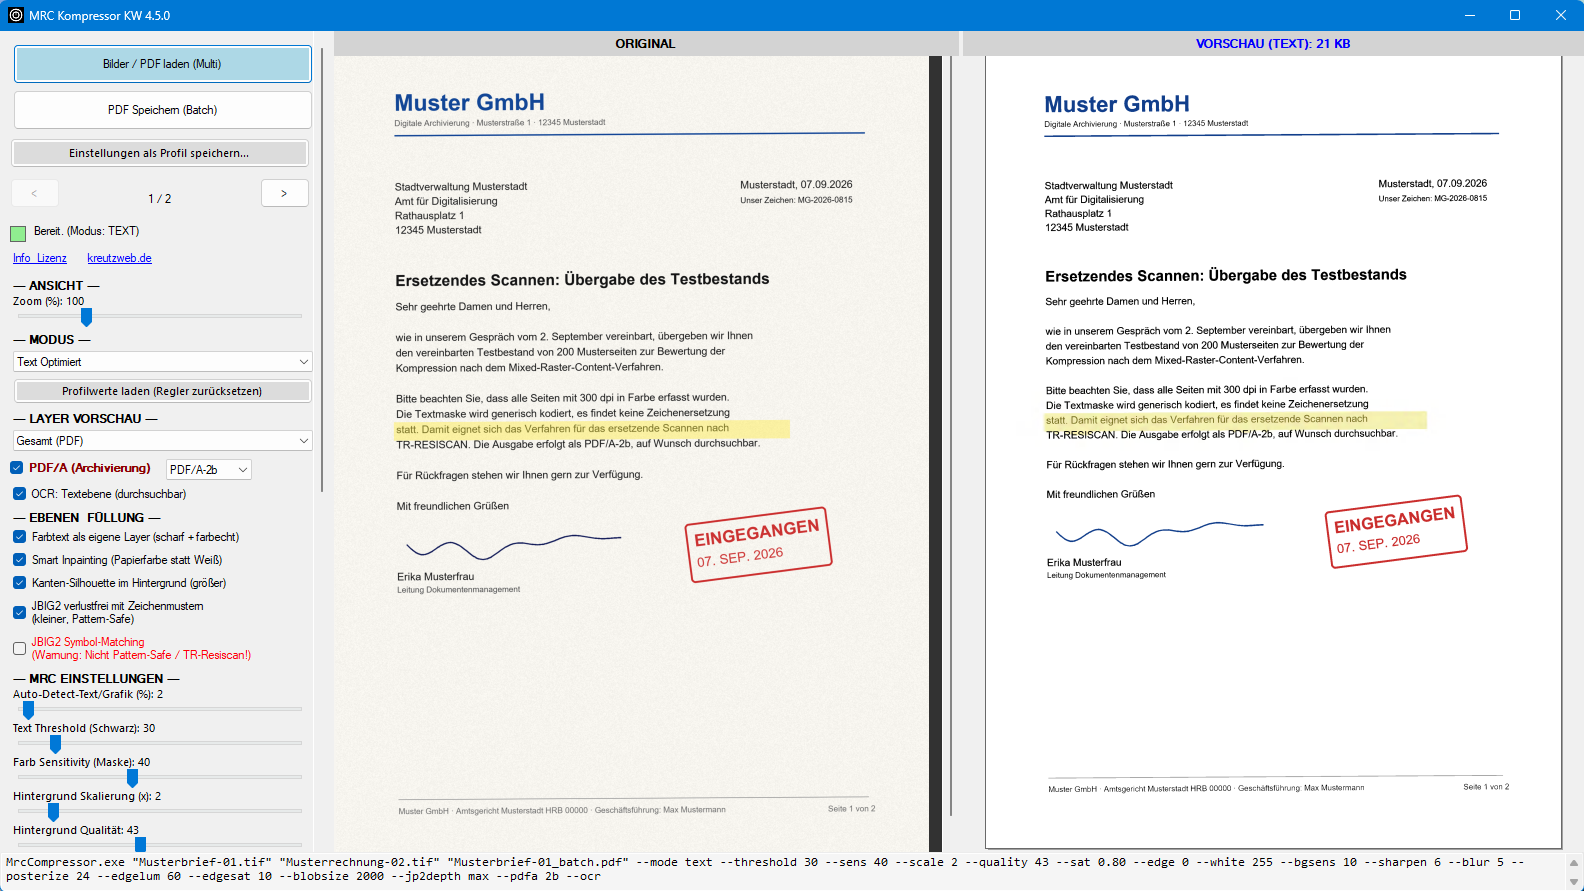
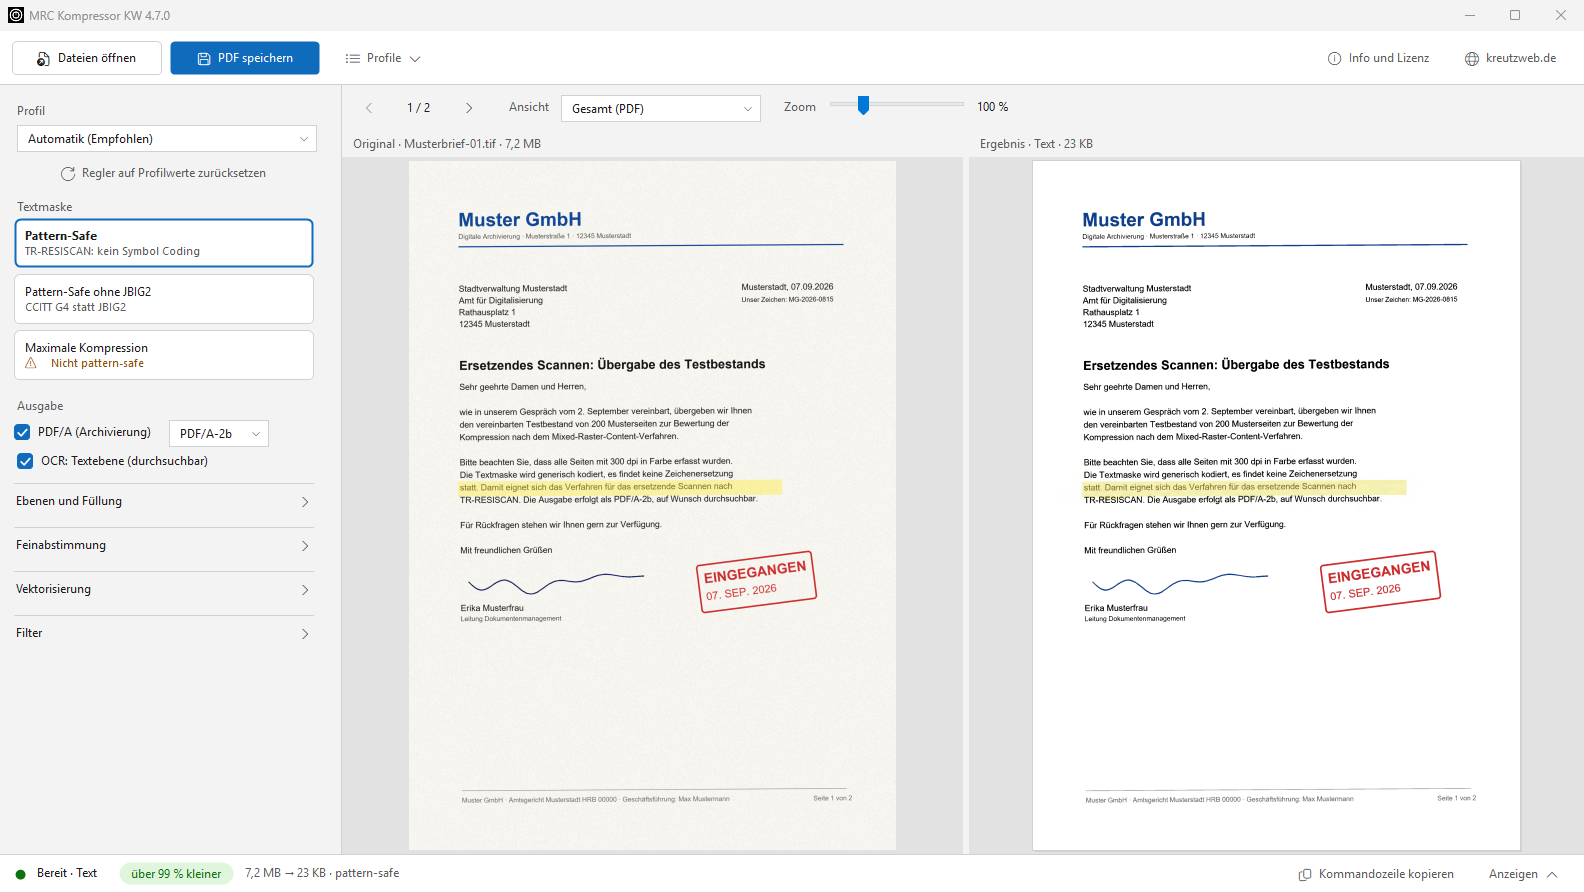
README: 4.7.0 – new interface, strictly pattern-safe default, text on image pages
Default text mask is now generic JBIG2 without symbol coding (BSI TR-03138),
with CCITT G4 and maximum compression as options; comparison figure split
into default and maximum compression. Sharp text masks on image pages,
JPEG 2000 with OpenJPEG, embossed seals kept, new GUI description and
screenshot (fictitious sample letter).

diff --git a/README.de.md b/README.de.md
@@ -3,12 +3,13 @@
 Ein kostenloses Windows-Programm, das gescannte Seiten (TIFF, JPEG, PNG oder PDF) mit
 **Mixed Raster Content (MRC)** in extrem kompakte PDF-Dateien verwandelt —
 typisch **90–95 % kleiner** als der Original-Scan, bei gestochen scharfem Text.
-Standardmäßig pattern-safe (keine JBIG2-Zeichenersetzung), damit geeignet für
-das ersetzende Scannen nach **BSI TR-RESISCAN**.
+Standardmäßig pattern-safe: Die Textmaske wird Pixel für Pixel kodiert, ohne
+Zeichenmuster und ohne Zeichenvergleich — kein „Symbol Coding“ im Sinn der
+**BSI TR-RESISCAN** (TR-03138, Anforderung A.SC.12).
 
 **Webseite & Download:** https://kreutzweb.de/tool-mrc-pdf-kompressor.html
 
-![MRC PDF Kompressor — Split-View: links der Original-Scan, rechts die Vorschau des komprimierten PDFs](screenshot.png)
+![MRC PDF Kompressor — links der Original-Scan, rechts die Vorschau des komprimierten PDFs](screenshot.png)
 
 ## Warum
 
@@ -16,20 +17,31 @@ Eine farbige A4-Seite mit 300 DPI ist als TIFF 25 MB groß und als JPEG immer
 noch mehrere MB. Archive, DMS und Postfächer laufen damit schnell voll.
 Kommerzielle MRC-Engines lösen das, werden aber pro Arbeitsplatz oder
 Seitenvolumen lizenziert. Dieses Werkzeug liefert vergleichbare Ergebnisse —
-im internen Vergleich mit 23 Musterseiten in Summe rund 60 % kleiner als eine
-führende kommerzielle MRC-Lösung und in allen fünf Dokumentgruppen kleiner, bei
-gleicher Lesbarkeit — und ist für
-Privatpersonen und kleine Unternehmen kostenlos.
+im internen Vergleich mit 23 Musterseiten im Standard (streng pattern-safe) in
+Summe rund 60 % kleiner als eine führende kommerzielle MRC-Lösung, die ihre
+Schrift per Symbol-Matching kodiert, bei reinen Textseiten etwa gleichauf; mit
+`--maxcompress` in Summe rund zwei Drittel kleiner und in allen fünf
+Dokumentgruppen kleiner — und ist für Privatpersonen und kleine Unternehmen
+kostenlos.
 
 ## Funktionen
 
 - **Extreme Kompression**: aus einem 5-MB-Scan werden im Text-Modus deutlich
   unter 100 KB
-- **Pattern-safe / TR-RESISCAN**: JBIG2-Kodierung ohne Zeichenersetzung,
-  verlustfrei mit Zeichenmustern — gleiche Zeichen werden einmal gespeichert und
-  an jeder Stelle pixelgenau korrigiert, kein Zeichen wird durch ein „ähnliches"
-  ersetzt (die bekannte JBIG2-Falle); optionaler Symbol-Modus für maximale
-  Kompression, wenn Pattern-Sicherheit nicht gefordert ist
+- **Pattern-safe / TR-RESISCAN**: Standard ist die generische JBIG2-Kodierung —
+  jedes Pixel der Textmaske wird so gespeichert, wie es ist, ohne Wörterbuch und
+  ohne Zeichenvergleich (kein „Symbol Coding“, TR-03138 A.SC.12); `--patternsafe`
+  erzwingt das auch gegen ein eigenes Profil
+- **Pattern-safe ohne JBIG2** (`--ccitt`): dieselbe Sicherheit mit CCITT G4
+  (Fax-Kodierung) für Stellen, die JBIG2 ganz ablehnen; Textseiten werden
+  20–45 % größer
+- **Maximale Kompression auf Wunsch** (`--maxcompress`): JBIG2-Symbol-Matching
+  und Kantenangleichung gleicher Zeichen — reine Textseiten bis rund 60 %
+  kleiner. Ähnliche Zeichen können dabei ersetzt werden (die bekannte
+  JBIG2-Falle), also nicht für das ersetzende Scannen. Mit
+  `--maxcompress --nojbig2symbols` wird kein Zeichen ersetzt: gleiche Zeichen
+  werden einmal als Muster gespeichert und an jeder Stelle pixelgenau
+  korrigiert (Textseiten meist 15–45 % kleiner)
 - **Farbtext-Ebenen**: farbige Überschriften, Stempel, Logos und Textmarker
   werden automatisch erkannt und als eigene scharfe 300-DPI-Ebenen in
   Originalfarbe erhalten (bis zu 4 Farbcluster je Seite)
@@ -37,10 +49,16 @@ Privatpersonen und kleine Unternehmen kostenlos.
   getöntem Papier bleiben kleine Textseiten, das Papier wird eine gleichmäßige
   Fläche in seiner Farbe; Fotos und Illustrationen auf Textseiten kommen als
   eigenes Bild in Grafik-Qualität in die PDF, die Schrift drumherum bleibt scharf
+- **Schrift auf Bildseiten**: auch auf Seiten, die als Bild gespeichert werden
+  (Fotos, Pläne, Prospekte), kommt sicher erkannte schwarze Schrift scharf in
+  eine Textmaske — zeilen- und absatzweise; das Bild darunter wird kleiner
 - **Formulare und Screenshots**: grau hinterlegte Formularfelder bleiben erhalten (gerade
   Felder als Vektorfläche mit scharfer Kante), Formulare mit farbigen Rahmen bleiben kleine
   Textseiten, helle Ankreuzkästchen bleiben vollständig; Screenshots und Programmfenster auf
   Textseiten werden als Bild geschützt, ihre kleine Schrift bleibt lesbar
+- **Prägesiegel**: deutlich ausgeprägte Blindprägungen (etwa ein Kammersiegel auf einem
+  Zeugnis) werden erkannt und als zarte Schattierung erhalten, statt mit dem Papier
+  weiß gebleicht zu werden
 - **Smart Inpainting & Background Bleaching**: der Hintergrund hinter dem Text
   wird mit der echten Papierfarbe rekonstruiert, Grauschleier und
   Durchscheinen entfernt — keine Halos, kleinere Dateien
@@ -56,9 +74,10 @@ Privatpersonen und kleine Unternehmen kostenlos.
   auf Dateianhänge (z. B. von E-Rechnungen) weist das Programm hin – sie gehen verloren
 - **Mehrseitige TIFFs**, Ordner und Wildcards als Eingabe, parallele
   Seitenverarbeitung auf Mehrkern-CPUs (bis zu 8 Seiten gleichzeitig)
-- **Split-View-Oberfläche** mit Echtzeit-Vorschau (Original vs. Ergebnis),
-  synchronem Zoom, Ebenen-Ansicht, Profilen („Text", „Grafik", …) und einer
-  generierten Kommandozeile zum Übernehmen in Skripte
+- **Moderne Oberfläche** mit Echtzeit-Vorschau (Original und Ergebnis
+  nebeneinander), synchronem Zoom, Ebenen-Ansicht, Profilen („Text", „Grafik", …),
+  hell oder dunkel passend zu Windows; Dateien und Ordner lassen sich ins Fenster
+  ziehen, die passende Kommandozeile lässt sich mit einem Klick kopieren
 - **Eigene Profile**: beliebig viele benannte Profile in der Oberfläche
   speichern und per `--profile "Name"` in Skripten aufrufen
 - **Voll skriptbare CLI**: Exit-Codes 0/1/2, Fortschritt je Seite, `--help`,
@@ -67,13 +86,14 @@ Privatpersonen und kleine Unternehmen kostenlos.
 ## Wie es funktioniert
 
 1. **Text-Maske** — schwarzer Text wird in voller Auflösung (300 DPI)
-   extrahiert und als JBIG2 kodiert — verlustfrei mit Zeichenmustern und einem
-   gemeinsamen Wörterbuch je Dokument, jede Seite wird zur Kontrolle
-   zurückgelesen (pattern-safe; CCITT G4 als Rückfallebene)
+   extrahiert und als JBIG2 kodiert — generisch, also Pixel für Pixel ohne
+   Zeichenmuster (pattern-safe; CCITT G4 als Rückfallebene). Mit `--ccitt`
+   als CCITT G4 statt JBIG2, mit `--maxcompress` mit Zeichenmustern und einem
+   gemeinsamen Wörterbuch je Dokument, jede Seite wird zur Kontrolle zurückgelesen
 2. **Farbtext-Ebenen** — farbige Schrift, Stempel und Logos werden nach Farbe
    gruppiert und als eigene Stencil-Ebenen eingebettet
 3. **Hintergrund** — Papierstruktur und Fotos werden inpainted, geglättet,
-   verkleinert und als JPEG 2000 oder JPEG kodiert; gleichmäßig graue
+   verkleinert und als JPEG 2000 (OpenJPEG) oder JPEG kodiert; gleichmäßig graue
    Formularfelder kommen als scharfe Vektorflächen darüber
 4. **Bildbereiche** — Fotos, Illustrationen und Screenshots auf Textseiten werden als eigenes
    Bild in Grafik-Qualität eingebettet, dort entsteht keine Textmaske
@@ -99,7 +119,8 @@ auf der Download-Seite.
 
 Voraussetzungen: Windows 10/11 64-Bit, .NET Framework 4.8,
 [Visual C++ Redistributable x64](https://aka.ms/vc14/vc_redist.x64.exe) für die
-Texterkennung. Das Setup installiert die Laufzeit auf Wunsch nach.
+Texterkennung und die JPEG-2000-Kodierung mit OpenJPEG. Das Setup installiert die
+Laufzeit auf Wunsch nach.
 
 ## Kommandozeile
 
@@ -120,9 +141,12 @@ MrcCompressor.exe --help
 | `--threshold 0-255` | Empfindlichkeit der Texterkennung |
 | `--scale 1-10` | Verkleinerungsfaktor des Hintergrunds (stärkster Größenhebel) |
 | `--quality 0-100` | Qualität des Hintergrunds (JPEG 2000 / JPEG) |
-| `--jbig2symbols` | JBIG2-Symbol-Matching (max. Kompression, **nicht** pattern-safe) |
-| `--nojbig2lossless` | Textmaske nur generisch kodieren, ohne Zeichenmuster |
+| `--patternsafe` | Pattern-Safe erzwingen (ist der Standard; gilt auch gegen ein Profil): generisches JBIG2 ohne Symbol Coding |
+| `--ccitt` | Pattern-Safe ohne JBIG2: Textmaske als CCITT G4 (größer) |
+| `--maxcompress` | maximale Kompression: Symbol-Matching und Kantenangleichung, **nicht** pattern-safe (Zeichen können ersetzt werden) |
+| `--nojbig2symbols` | zusammen mit `--maxcompress`: ohne Zeichenersetzung (Zeichenmuster bitgleich) |
 | `--noimageregions` | Fotos auf Textseiten nicht als eigenes Bild schützen |
+| `--noimagetext` | Bildseiten ohne scharfe Textmaske (vollständig als Bild) |
 | `--dpi N` | Auflösung für Bilder ohne DPI-Angabe erzwingen |
 
 Jeder Modus startet mit seinem Profil aus `mrc_profiles.xml`; angegebene
@@ -137,6 +161,6 @@ Organisationen mit weniger als 100 Personen **und** unter 1 Mio. USD
 Jahresumsatz — größere Unternehmen benötigen eine kostenpflichtige Lizenz über
 [kreutzweb.de](https://kreutzweb.de). Aufgebaut auf hervorragender
 Open-Source-Software: ImageMagick (Magick.NET), SkiaSharp, iTextSharp LGPL,
-potrace (GPL, Quellcode liegt bei), PDFium, Bouncy Castle, ONNX Runtime und
+potrace (GPL, Quellcode liegt bei), PDFium, OpenJPEG, Bouncy Castle, ONNX Runtime und
 PaddleOCR-Modelle — siehe THIRD-PARTY-NOTICES.txt
 im Paket.

diff --git a/README.md b/README.md
@@ -2,14 +2,15 @@
 
 A free Windows program that turns scanned pages (TIFF, JPEG, PNG or PDF) into extremely
 compact PDF files using **Mixed Raster Content (MRC)** — typically **90–95 % smaller**
-than the original scan, with text that stays crisp. Pattern-safe by default (no
-JBIG2 symbol substitution), so the method is suitable for replacement scanning
-under the German BSI TR-RESISCAN.
+than the original scan, with text that stays crisp. Pattern-safe by default: the
+text mask is encoded pixel by pixel, without character patterns and without comparing
+glyphs — no "symbol coding" in the sense of the German BSI TR-RESISCAN (TR-03138,
+requirement A.SC.12).
 
 **Website & download:** https://kreutzweb.de/tool-mrc-pdf-kompressor.html
 ([German](https://kreutzweb.de/tool-mrc-pdf-kompressor.html) · [English](https://kreutzweb.de/en/tool-mrc-pdf-kompressor.html))
 
-![MRC PDF Kompressor — split view: original scan on the left, compressed PDF preview on the right](screenshot.png)
+![MRC PDF Kompressor — original scan on the left, compressed PDF preview on the right](screenshot.png)
 
 ## Why
 
@@ -17,18 +18,29 @@ A colour A4 page scanned at 300 DPI is 25 MB as TIFF and still several MB as
 JPEG. Archives, document management systems and mailboxes fill up fast.
 Commercial MRC engines solve this, but are licensed per seat or per page
 volume. This tool delivers comparable results — in an internal comparison of
-23 sample pages, around 60 % smaller in total than a leading commercial MRC
-solution and smaller in all five document groups, at the same legibility — and
-is free for private individuals and small businesses.
+23 sample pages, the default (strictly pattern-safe) is around 60 % smaller in
+total than a leading commercial MRC solution that encodes its text with symbol
+matching, and roughly on par on pure text pages; with `--maxcompress` it is
+around two thirds smaller in total and smaller in all five document groups —
+and it is free for private individuals and small businesses.
 
 ## Features
 
 - **Extreme compression**: a 5 MB scan becomes well under 100 KB in text mode
-- **Pattern-safe / TR-RESISCAN**: JBIG2 encoding without character
-  substitution, lossless with character patterns — identical glyphs are stored
-  once and corrected pixel by pixel wherever they occur, no glyph is ever
-  replaced by a "similar" one (the classic JBIG2 pitfall); optional symbol mode
-  for maximum compression when pattern safety is not required
+- **Pattern-safe / TR-RESISCAN**: the default is generic JBIG2 coding — every
+  pixel of the text mask is stored as it is, with no dictionary and no glyph
+  comparison (no "symbol coding", TR-03138 A.SC.12); `--patternsafe` enforces
+  this even against a custom profile
+- **Pattern-safe without JBIG2** (`--ccitt`): the same safety with CCITT G4
+  (fax coding) for organisations that reject JBIG2 altogether; text pages are
+  20–45 % larger
+- **Maximum compression on request** (`--maxcompress`): JBIG2 symbol matching
+  plus edge matching of identical glyphs — pure text pages up to about 60 %
+  smaller. Similar glyphs may be replaced (the classic JBIG2 pitfall), so this
+  is not meant for replacement scanning. With `--maxcompress --nojbig2symbols`
+  no glyph is ever replaced: identical glyphs are stored once as a pattern and
+  corrected pixel by pixel wherever they occur (text pages typically 15–45 %
+  smaller)
 - **Colour text layers**: coloured headings, stamps, logos and highlighter
   marks are detected automatically and kept as separate, sharp 300-DPI
   layers in their original colour (up to 4 colour clusters per page)
@@ -36,10 +48,16 @@ is free for private individuals and small businesses.
   tinted paper stay small text pages, the paper becomes an even area in its own
   colour; photos and illustrations on text pages go into the PDF as a separate
   image in graphics quality, while the surrounding text stays sharp
+- **Text on image pages**: even on pages stored as an image (photos, plans,
+  brochures), reliably detected black text goes into a sharp text mask — line by
+  line and paragraph by paragraph; the image underneath gets smaller
 - **Forms and screenshots**: grey-shaded form fields are kept (straight fields as
   vector shapes with crisp edges), forms with coloured frames stay small text pages,
   light checkboxes stay complete; screenshots and application windows on text pages
   are protected as images, their small text stays legible
+- **Embossed seals**: clearly embossed blind seals (such as a chamber's seal on a
+  certificate) are detected and kept as delicate shading instead of being bleached to
+  white along with the paper
 - **Smart inpainting & background bleaching**: the background behind the text
   is reconstructed with the real paper colour, grey haze and show-through are
   removed — no halos, smaller files
@@ -55,9 +73,10 @@ is free for private individuals and small businesses.
   (e.g. of e-invoices) are pointed out – they are lost in the conversion
 - **Multi-page TIFF**, folders and wildcards as input, parallel page
   processing on multi-core CPUs (up to 8 pages at a time)
-- **Split-view GUI** with live preview (original vs. result), synchronised
-  zoom, layer view, profiles ("Text", "Graphic", …) and a generated command
-  line you can paste into your scripts
+- **Modern GUI** with live preview (original and result side by side),
+  synchronised zoom, layer view, profiles ("Text", "Graphic", …), light or dark to
+  match Windows; drop files and folders onto the window and copy the matching
+  command line with one click
 - **Custom profiles**: save any number of named profiles in the GUI and run
   them from scripts with `--profile "Name"`
 - **Fully scriptable CLI**: exit codes 0/1/2, per-page progress, `--help`,
@@ -66,13 +85,14 @@ is free for private individuals and small businesses.
 ## How it works
 
 1. **Text mask** — black text is extracted at full resolution (300 DPI) and
-   encoded as JBIG2 — losslessly with character patterns and one shared
-   dictionary per document, every page read back as a check (pattern-safe;
-   CCITT G4 as fallback)
+   encoded as JBIG2 — generically, i.e. pixel by pixel without character
+   patterns (pattern-safe; CCITT G4 as fallback). With `--ccitt` it is
+   CCITT G4 instead of JBIG2; with `--maxcompress` it uses character patterns and
+   one shared dictionary per document, and every page is read back as a check
 2. **Colour text layers** — coloured text, stamps and logos are clustered by
    colour and embedded as separate stencil layers
 3. **Background** — paper texture and photos are inpainted, smoothed,
-   downscaled and encoded as JPEG 2000 or JPEG; evenly grey form fields are drawn
+   downscaled and encoded as JPEG 2000 (OpenJPEG) or JPEG; evenly grey form fields are drawn
    on top as crisp vector shapes
 4. **Image regions** — photos, illustrations and screenshots on text pages are embedded as a
    separate image in graphics quality, no text mask is created there
@@ -100,7 +120,8 @@ on the download page.
 
 Requirements: Windows 10/11 64-bit, .NET Framework 4.8,
 [Visual C++ Redistributable x64](https://aka.ms/vc14/vc_redist.x64.exe) for text
-recognition. The setup installs the runtime on request.
+recognition and JPEG 2000 encoding with OpenJPEG. The setup installs the runtime
+on request.
 
 ## Command line
 
@@ -121,9 +142,12 @@ MrcCompressor.exe --help
 | `--threshold 0-255` | text detection sensitivity |
 | `--scale 1-10` | background downscale factor (strongest size lever) |
 | `--quality 0-100` | background JPEG 2000 / JPEG quality |
-| `--jbig2symbols` | JBIG2 symbol matching (max. compression, **not** pattern-safe) |
-| `--nojbig2lossless` | encode the text mask generically only, without character patterns |
+| `--patternsafe` | enforce pattern-safe coding (the default; also overrides a profile): generic JBIG2 without symbol coding |
+| `--ccitt` | pattern-safe without JBIG2: text mask as CCITT G4 (larger) |
+| `--maxcompress` | maximum compression: symbol matching and edge matching, **not** pattern-safe (glyphs may be replaced) |
+| `--nojbig2symbols` | together with `--maxcompress`: no glyph replacement (bit-identical character patterns) |
 | `--noimageregions` | do not protect photos on text pages as a separate image |
+| `--noimagetext` | image pages without a sharp text mask (stored entirely as an image) |
 | `--dpi N` | force resolution for images without DPI metadata |
 
 Every mode starts with its profile from `mrc_profiles.xml`; explicit parameters
@@ -137,7 +161,7 @@ private individuals and for organisations with fewer than 100 people **and**
 under USD 1M annual revenue — larger companies need a paid license via
 [kreutzweb.de](https://kreutzweb.de). Built on excellent open-source software:
 ImageMagick (Magick.NET), SkiaSharp, iTextSharp LGPL, potrace (GPL, sources
-included), PDFium, Bouncy Castle, ONNX Runtime and PaddleOCR models — see
+included), PDFium, OpenJPEG, Bouncy Castle, ONNX Runtime and PaddleOCR models — see
 THIRD-PARTY-NOTICES.txt in the package.
 
 ---
